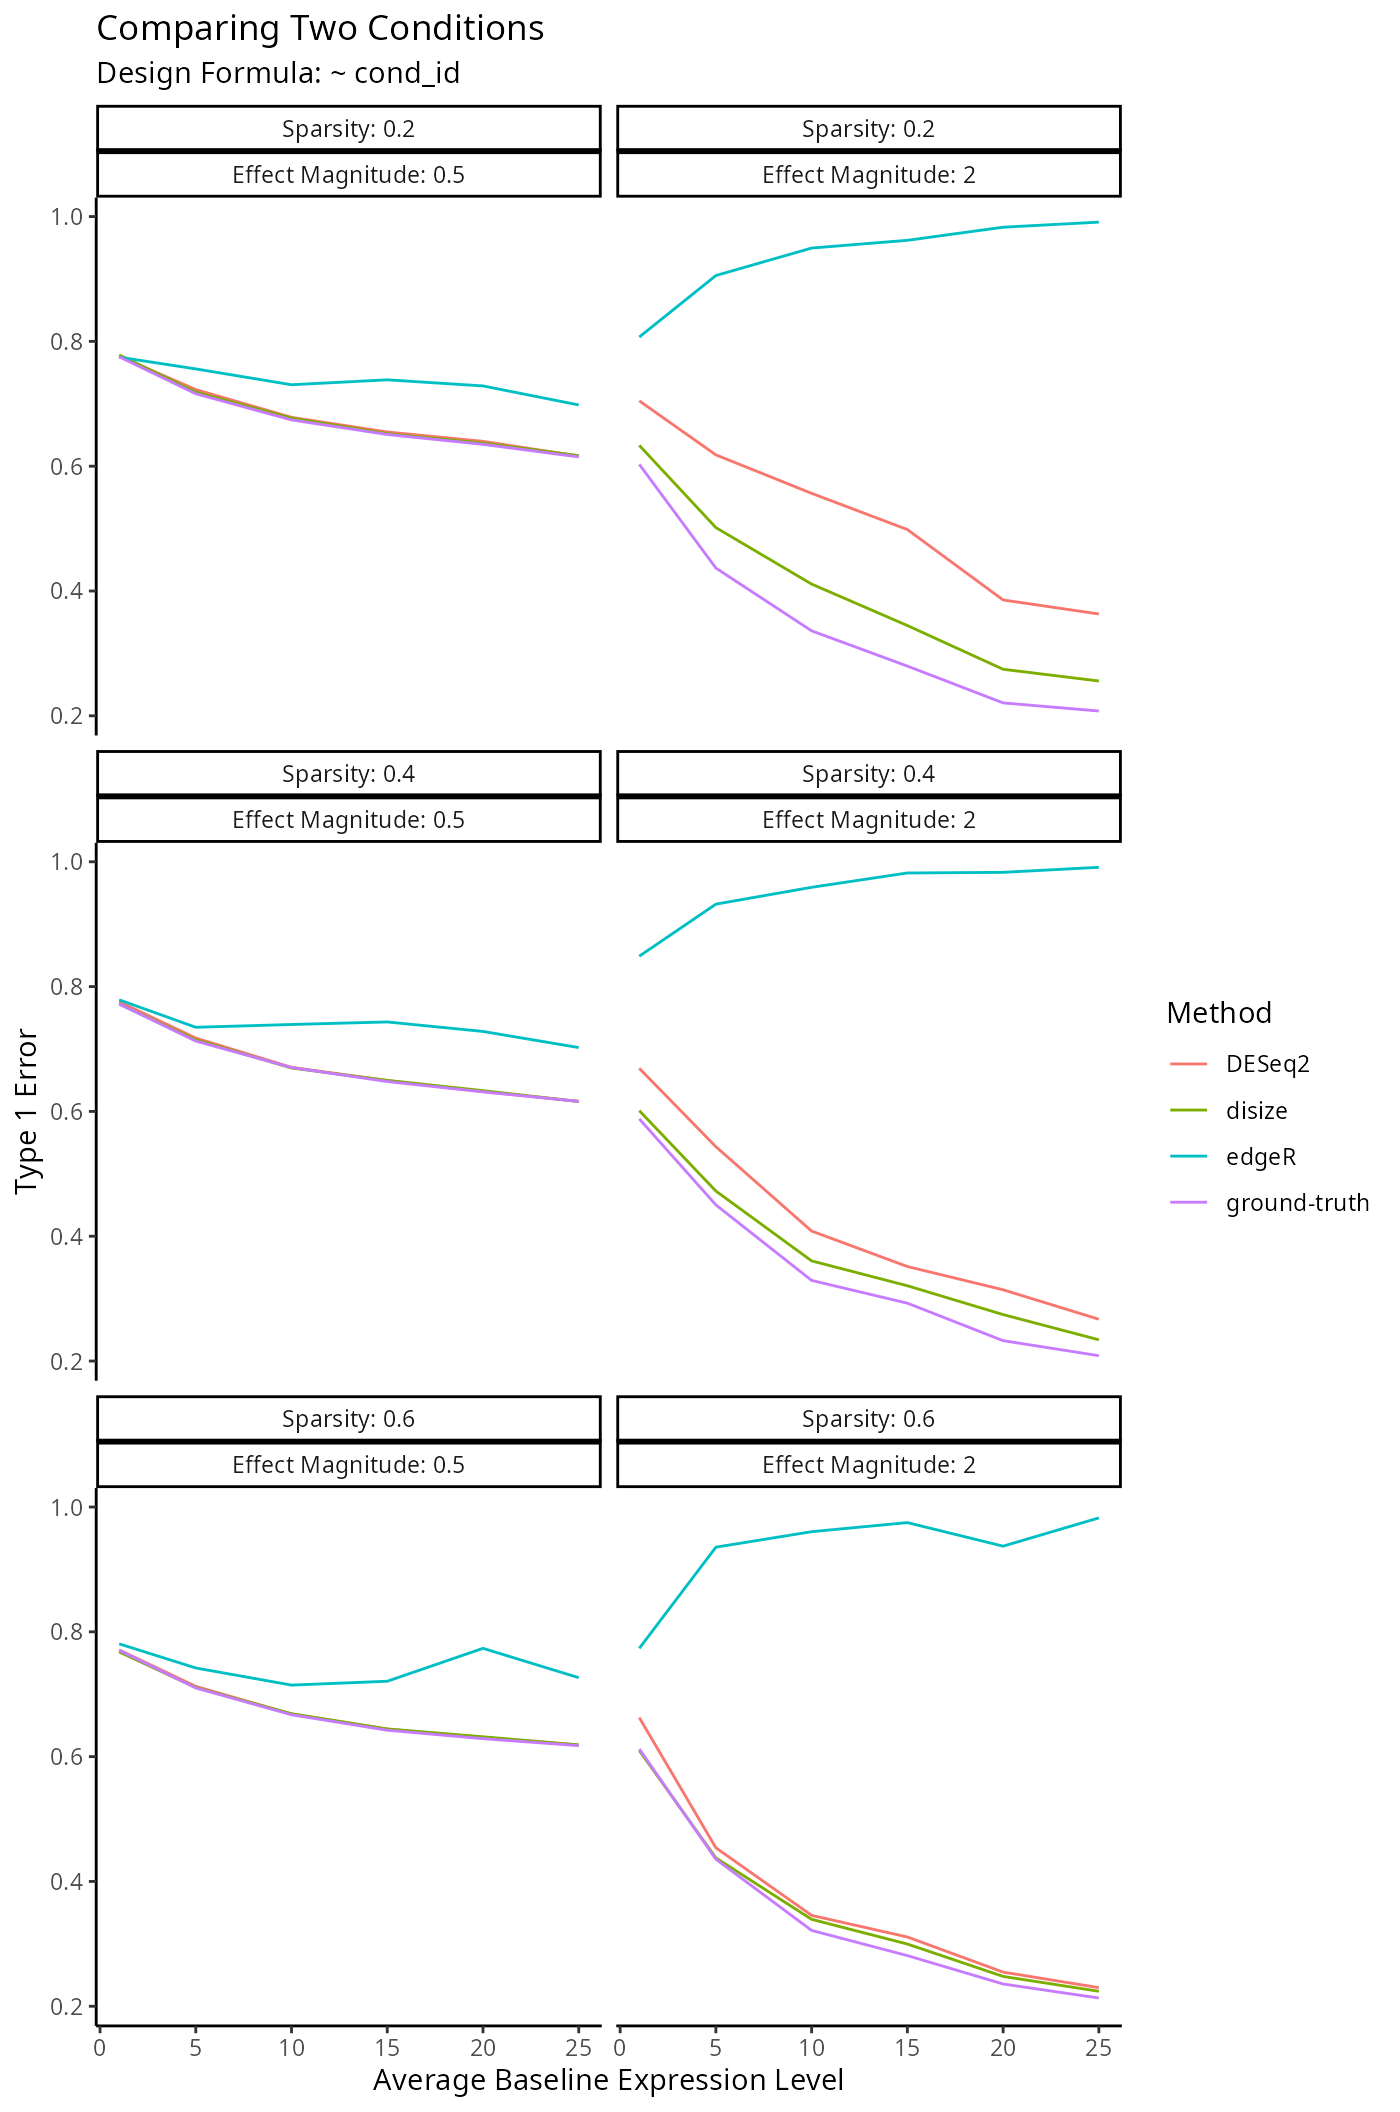
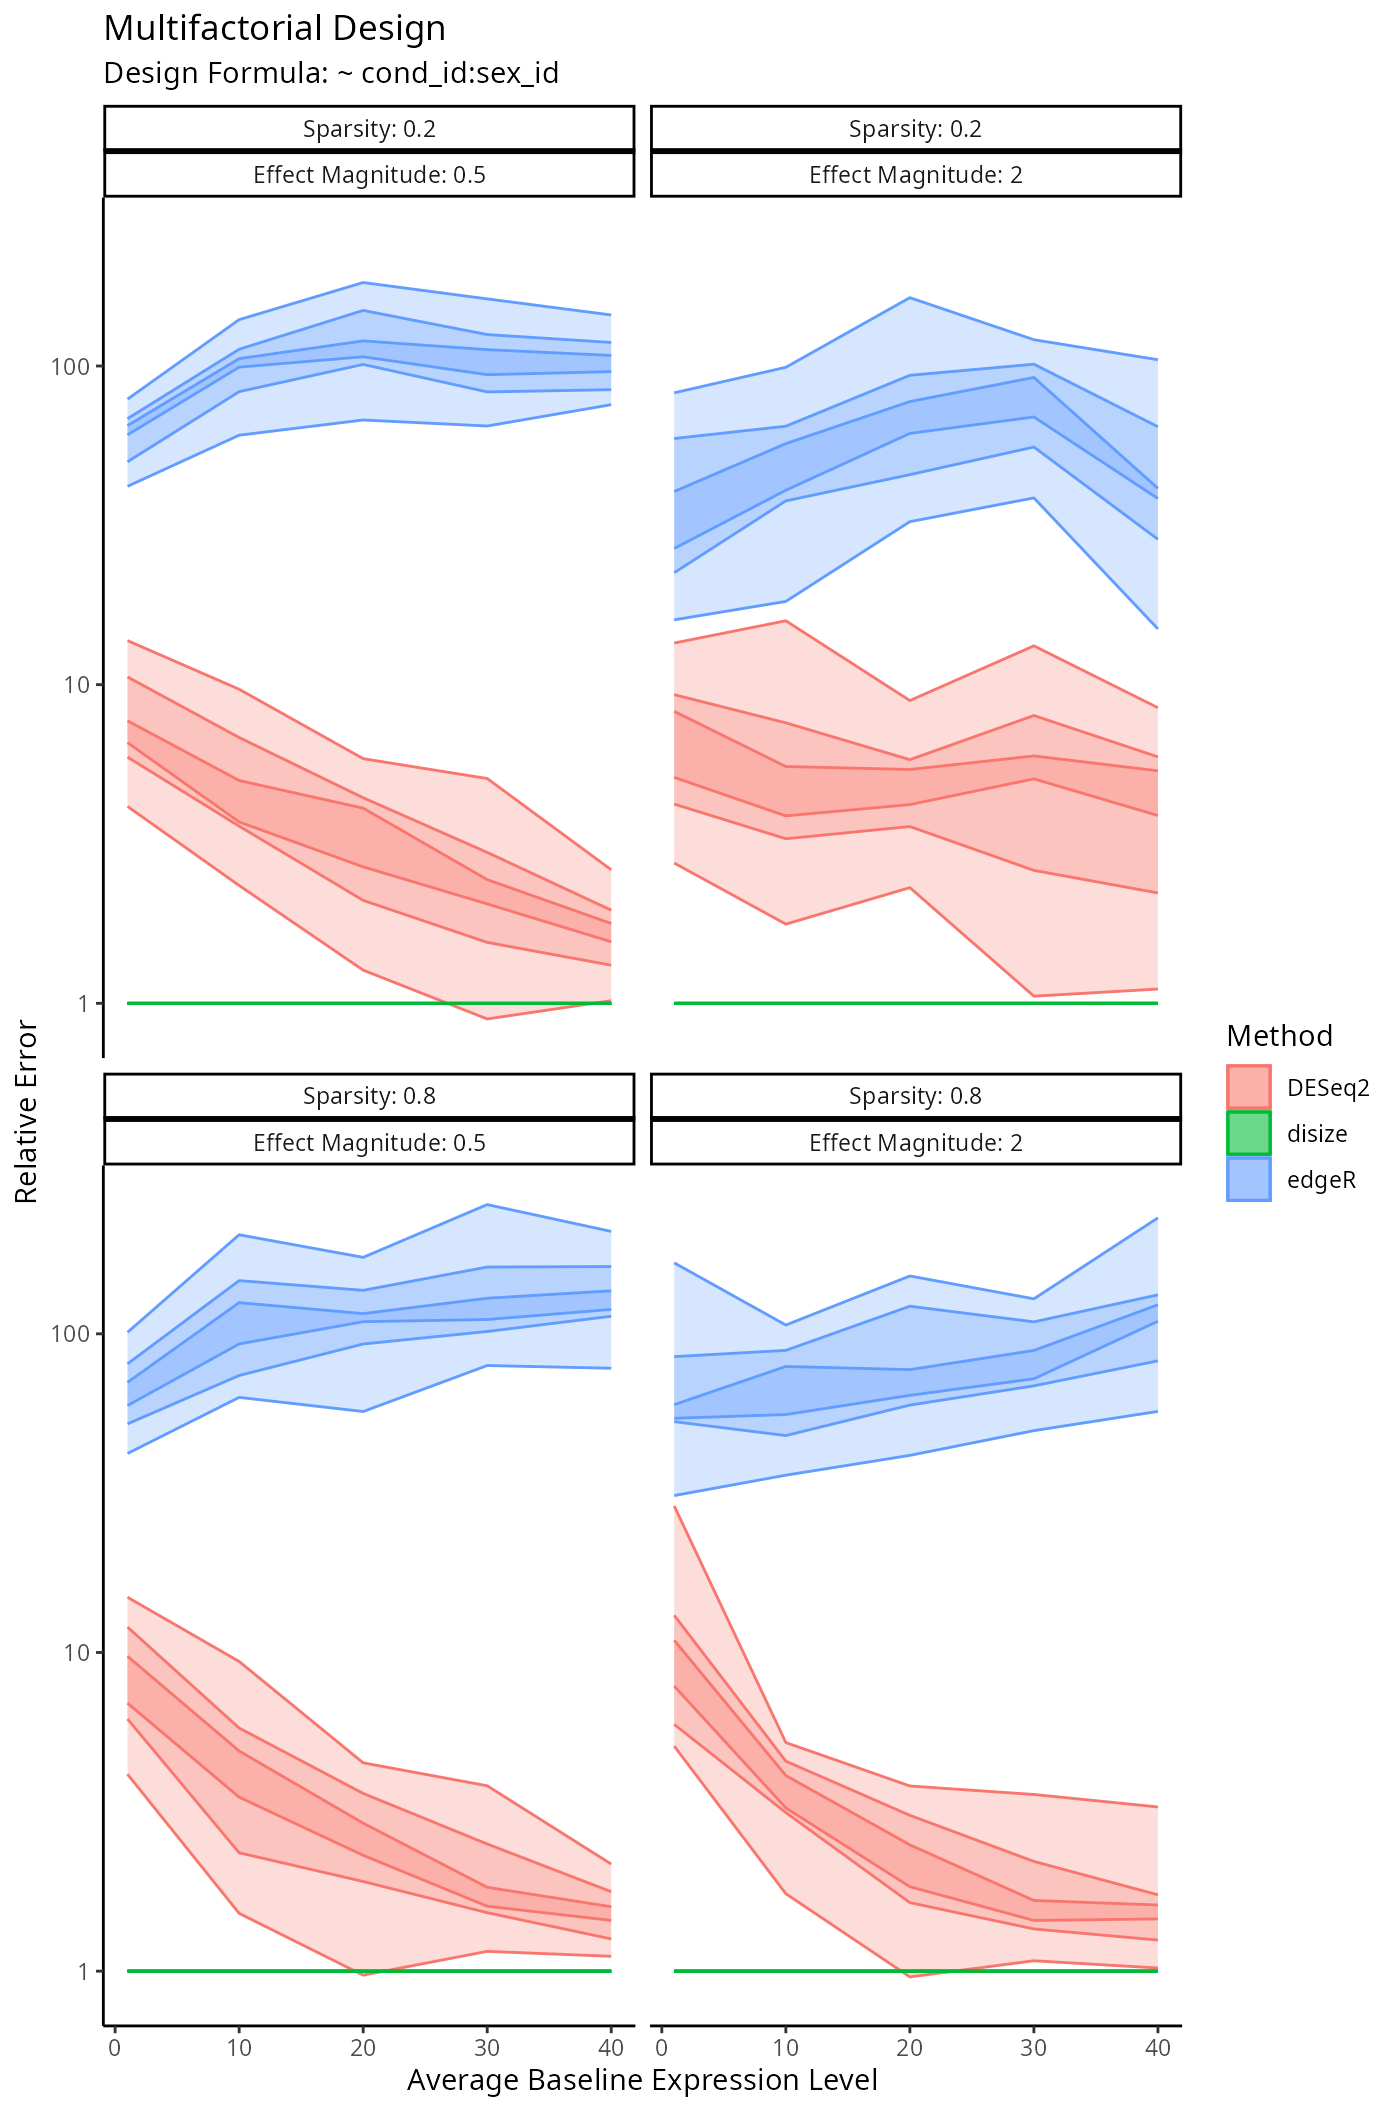
Built site for disize@0.5.0:

diff --git a/articles/benchmarking.html b/articles/benchmarking.html
@@ -154,39 +154,46 @@ varying the above parameters and then simulate a dataset corresponding
 to a given scenario:</p>
 <div class="sourceCode" id="cb1"><pre class="downlit sourceCode r">
 <code class="sourceCode R"><span><span class="co"># Simulate a single dataset given its settings</span></span>
-<span><span class="va">simulate_dataset</span> <span class="op">&lt;-</span> <span class="kw">function</span><span class="op">(</span><span class="va">design_formula</span>, <span class="va">metadata</span>, <span class="va">n_genes</span>, <span class="va">sparsity</span>, <span class="va">mgt</span>, <span class="va">avg</span><span class="op">)</span> <span class="op">{</span></span>
+<span><span class="va">simulate_dataset</span> <span class="op">&lt;-</span> <span class="kw">function</span><span class="op">(</span></span>
+<span>    <span class="va">design_formula</span>,</span>
+<span>    <span class="va">metadata</span>,</span>
+<span>    <span class="va">n_genes</span>,</span>
+<span>    <span class="va">sparsity</span>,</span>
+<span>    <span class="va">mgt</span>,</span>
+<span>    <span class="va">avg</span><span class="op">)</span> <span class="op">{</span></span>
 <span>    <span class="co"># Simulate inverse overdispersion factors</span></span>
-<span>    <span class="va">iodisps</span> <span class="op">&lt;-</span> <span class="fu"><a href="https://rdrr.io/r/stats/Lognormal.html" class="external-link">rlnorm</a></span><span class="op">(</span><span class="va">n_genes</span>, <span class="fu"><a href="https://rdrr.io/r/base/Log.html" class="external-link">log</a></span><span class="op">(</span><span class="fl">10</span><span class="op">)</span>, <span class="fl">0.1</span><span class="op">)</span></span>
+<span>    <span class="va">iodisps</span> <span class="op">&lt;-</span> <span class="fu"><a href="https://rdrr.io/r/stats/Lognormal.html" class="external-link">rlnorm</a></span><span class="op">(</span><span class="va">n_genes</span>, <span class="fu"><a href="https://rdrr.io/r/base/Log.html" class="external-link">log</a></span><span class="op">(</span><span class="fl">10</span><span class="op">)</span>, <span class="fl">0.5</span><span class="op">)</span></span>
 <span></span>
-<span>    <span class="co"># Construct design matrices ...</span></span>
+<span>    <span class="co"># Split design formula</span></span>
+<span>    <span class="va">design</span> <span class="op">&lt;-</span> <span class="fu">split_formula</span><span class="op">(</span><span class="va">design_formula</span><span class="op">)</span></span>
+<span></span>
+<span>    <span class="co"># Construct model matrices...</span></span>
 <span></span>
 <span>    <span class="co"># Simulate size factors</span></span>
-<span>    <span class="va">size_factors</span> <span class="op">&lt;-</span> <span class="fu"><a href="https://rdrr.io/r/stats/Uniform.html" class="external-link">runif</a></span><span class="op">(</span><span class="fu"><a href="https://rdrr.io/r/base/length.html" class="external-link">length</a></span><span class="op">(</span><span class="fu"><a href="https://rdrr.io/pkg/S4Vectors/man/Factor-class.html" class="external-link">levels</a></span><span class="op">(</span><span class="va">metadata</span><span class="op">$</span><span class="va">batch_id</span><span class="op">)</span><span class="op">)</span>, <span class="fl">0.1</span>, <span class="fl">1.0</span><span class="op">)</span> <span class="op">|&gt;</span></span>
-<span>        <span class="fu"><a href="https://rdrr.io/r/stats/setNames.html" class="external-link">setNames</a></span><span class="op">(</span><span class="fu"><a href="https://rdrr.io/pkg/S4Vectors/man/Factor-class.html" class="external-link">levels</a></span><span class="op">(</span><span class="va">metadata</span><span class="op">$</span><span class="va">batch_id</span><span class="op">)</span><span class="op">)</span></span>
+<span>    <span class="va">size_factors</span> <span class="op">&lt;-</span> <span class="fu"><a href="https://rdrr.io/r/stats/Uniform.html" class="external-link">runif</a></span><span class="op">(</span><span class="fu"><a href="https://rdrr.io/r/base/length.html" class="external-link">length</a></span><span class="op">(</span><span class="fu"><a href="https://rdrr.io/r/base/levels.html" class="external-link">levels</a></span><span class="op">(</span><span class="va">metadata</span><span class="op">$</span><span class="va">batch_id</span><span class="op">)</span><span class="op">)</span>, <span class="fl">0.1</span>, <span class="fl">1.0</span><span class="op">)</span> <span class="op">|&gt;</span></span>
+<span>        <span class="fu"><a href="https://rdrr.io/r/stats/setNames.html" class="external-link">setNames</a></span><span class="op">(</span><span class="fu"><a href="https://rdrr.io/r/base/levels.html" class="external-link">levels</a></span><span class="op">(</span><span class="va">metadata</span><span class="op">$</span><span class="va">batch_id</span><span class="op">)</span><span class="op">)</span></span>
+<span>    <span class="va">batch_effect</span> <span class="op">&lt;-</span> <span class="va">size_factors</span><span class="op">[</span><span class="va">metadata</span><span class="op">$</span><span class="va">batch_id</span><span class="op">]</span></span>
 <span></span>
 <span>    <span class="co"># Simulate counts</span></span>
 <span>    <span class="va">counts</span> <span class="op">&lt;-</span> <span class="fu"><a href="https://rdrr.io/r/base/lapply.html" class="external-link">sapply</a></span><span class="op">(</span><span class="fl">1</span><span class="op">:</span><span class="va">n_genes</span>, <span class="kw">function</span><span class="op">(</span><span class="va">g_i</span><span class="op">)</span> <span class="op">{</span></span>
-<span>        <span class="va">intercept</span> <span class="op">&lt;-</span> <span class="fu"><a href="https://rdrr.io/r/stats/Normal.html" class="external-link">rnorm</a></span><span class="op">(</span><span class="fl">1</span><span class="op">)</span></span>
-<span></span>
 <span>        <span class="co"># Simulate fixed-effects</span></span>
-<span>        <span class="va">fe_mask</span> <span class="op">&lt;-</span> <span class="fu"><a href="https://rdrr.io/r/stats/Binomial.html" class="external-link">rbinom</a></span><span class="op">(</span><span class="fu"><a href="https://rdrr.io/r/base/nrow.html" class="external-link">ncol</a></span><span class="op">(</span><span class="va">fe_design</span><span class="op">)</span>, <span class="fl">1</span>, <span class="fl">1</span> <span class="op">-</span> <span class="va">sparsity</span><span class="op">)</span> <span class="co"># Impose sparsity</span></span>
-<span>        <span class="va">fe_coefs</span> <span class="op">&lt;-</span> <span class="va">fe_mask</span> <span class="op">*</span> <span class="fu"><a href="https://rdrr.io/r/stats/Normal.html" class="external-link">rnorm</a></span><span class="op">(</span><span class="fu"><a href="https://rdrr.io/r/base/nrow.html" class="external-link">ncol</a></span><span class="op">(</span><span class="va">fe_design</span><span class="op">)</span>, sd <span class="op">=</span> <span class="va">mgt</span><span class="op">)</span></span>
+<span>        <span class="va">sparse</span> <span class="op">&lt;-</span> <span class="fu"><a href="https://rdrr.io/r/stats/Uniform.html" class="external-link">runif</a></span><span class="op">(</span><span class="fu"><a href="https://rdrr.io/r/base/nrow.html" class="external-link">ncol</a></span><span class="op">(</span><span class="va">fe_design</span><span class="op">)</span><span class="op">)</span> <span class="op">&lt;</span> <span class="va">sparsity</span></span>
+<span>        <span class="va">fe_coefs</span> <span class="op">&lt;-</span> <span class="fu"><a href="https://rdrr.io/r/base/ifelse.html" class="external-link">ifelse</a></span><span class="op">(</span><span class="va">sparse</span>, <span class="fl">0.0</span>, <span class="fu"><a href="https://rdrr.io/r/stats/Normal.html" class="external-link">rnorm</a></span><span class="op">(</span><span class="fu"><a href="https://rdrr.io/r/base/nrow.html" class="external-link">ncol</a></span><span class="op">(</span><span class="va">fe_design</span><span class="op">)</span>, <span class="fl">0</span>, <span class="va">mgt</span><span class="op">)</span><span class="op">)</span></span>
 <span></span>
 <span>        <span class="co"># Simulate random-effects</span></span>
-<span>        <span class="va">re_coefs</span> <span class="op">&lt;-</span> <span class="fu"><a href="https://rdrr.io/r/base/lapply.html" class="external-link">lapply</a></span><span class="op">(</span><span class="fu"><a href="https://rdrr.io/r/base/lapply.html" class="external-link">lapply</a></span><span class="op">(</span><span class="va">remm</span><span class="op">$</span><span class="va">Ztlist</span>, <span class="va">nrow</span><span class="op">)</span>, <span class="kw">function</span><span class="op">(</span><span class="va">n_rows</span><span class="op">)</span> <span class="op">{</span></span>
-<span>            <span class="va">re_mask</span> <span class="op">&lt;-</span> <span class="fu"><a href="https://rdrr.io/r/stats/Binomial.html" class="external-link">rbinom</a></span><span class="op">(</span><span class="fl">1</span>, <span class="fl">1</span>, <span class="fl">1</span> <span class="op">-</span> <span class="va">sparsity</span><span class="op">)</span> <span class="co"># Impose sparsity</span></span>
-<span>            <span class="va">re_coefs_block</span> <span class="op">&lt;-</span> <span class="va">re_mask</span> <span class="op">*</span> <span class="fu"><a href="https://rdrr.io/r/stats/Normal.html" class="external-link">rnorm</a></span><span class="op">(</span><span class="va">n_rows</span>, sd <span class="op">=</span> <span class="va">mgt</span><span class="op">)</span></span>
+<span>        <span class="va">re_coefs</span> <span class="op">&lt;-</span> <span class="fu"><a href="https://rdrr.io/r/base/lapply.html" class="external-link">lapply</a></span><span class="op">(</span><span class="fu"><a href="https://rdrr.io/r/base/lapply.html" class="external-link">lapply</a></span><span class="op">(</span><span class="va">remm</span><span class="op">$</span><span class="va">Ztlist</span>, <span class="va">nrow</span><span class="op">)</span>, <span class="kw">function</span><span class="op">(</span><span class="va">n_coefs</span><span class="op">)</span> <span class="op">{</span></span>
+<span>            <span class="va">sparse</span> <span class="op">&lt;-</span> <span class="fu"><a href="https://rdrr.io/r/base/rep.html" class="external-link">rep</a></span><span class="op">(</span><span class="fu"><a href="https://rdrr.io/r/stats/Uniform.html" class="external-link">runif</a></span><span class="op">(</span><span class="fl">1</span><span class="op">)</span> <span class="op">&lt;</span> <span class="va">sparsity</span>, <span class="va">n_coefs</span><span class="op">)</span></span>
 <span></span>
-<span>            <span class="va">re_coefs_block</span></span>
+<span>            <span class="fu"><a href="https://rdrr.io/r/base/ifelse.html" class="external-link">ifelse</a></span><span class="op">(</span><span class="va">sparse</span>, <span class="fl">0.0</span>, <span class="fu"><a href="https://rdrr.io/r/stats/Normal.html" class="external-link">rnorm</a></span><span class="op">(</span><span class="va">n_coefs</span>, sd <span class="op">=</span> <span class="va">mgt</span><span class="op">)</span><span class="op">)</span></span>
 <span>        <span class="op">}</span><span class="op">)</span> <span class="op">|&gt;</span></span>
 <span>            <span class="fu"><a href="https://rdrr.io/r/base/unlist.html" class="external-link">unlist</a></span><span class="op">(</span><span class="op">)</span></span>
 <span></span>
 <span>        <span class="co"># Compute realized magnitude</span></span>
 <span>        <span class="va">log_mu</span> <span class="op">&lt;-</span> <span class="fu"><a href="https://rdrr.io/r/base/vector.html" class="external-link">as.vector</a></span><span class="op">(</span></span>
-<span>            <span class="fu"><a href="https://rdrr.io/r/base/Log.html" class="external-link">log</a></span><span class="op">(</span><span class="va">avg</span><span class="op">)</span> <span class="op">+</span></span>
+<span>            <span class="fu"><a href="https://rdrr.io/r/stats/Normal.html" class="external-link">rnorm</a></span><span class="op">(</span><span class="fl">1</span>, <span class="fu"><a href="https://rdrr.io/r/base/Log.html" class="external-link">log</a></span><span class="op">(</span><span class="va">avg</span><span class="op">)</span><span class="op">)</span> <span class="op">+</span></span>
 <span>                <span class="va">fe_design</span> <span class="op"><a href="https://rdrr.io/r/base/matmult.html" class="external-link">%*%</a></span> <span class="va">fe_coefs</span> <span class="op">+</span></span>
 <span>                <span class="va">re_design</span> <span class="op"><a href="https://rdrr.io/r/base/matmult.html" class="external-link">%*%</a></span> <span class="va">re_coefs</span> <span class="op">+</span></span>
-<span>                <span class="fu"><a href="https://rdrr.io/r/base/Log.html" class="external-link">log</a></span><span class="op">(</span><span class="va">size_factors</span><span class="op">[</span><span class="va">metadata</span><span class="op">$</span><span class="va">batch_id</span><span class="op">]</span><span class="op">)</span></span>
+<span>                <span class="fu"><a href="https://rdrr.io/r/base/Log.html" class="external-link">log</a></span><span class="op">(</span><span class="va">batch_effect</span><span class="op">)</span></span>
 <span>        <span class="op">)</span></span>
 <span></span>
 <span>        <span class="co"># Draw counts from negative binomial</span></span>
@@ -200,7 +207,6 @@ to a given scenario:</p>
 <span>        counts <span class="op">=</span> <span class="va">counts</span>,</span>
 <span>        metadata <span class="op">=</span> <span class="va">metadata</span>,</span>
 <span>        size_factors <span class="op">=</span> <span class="fu"><a href="https://rdrr.io/r/base/Log.html" class="external-link">log</a></span><span class="op">(</span></span>
-<span>            <span class="co"># Scale for comparisons</span></span>
 <span>            <span class="va">size_factors</span> <span class="op">/</span> <span class="fu"><a href="https://rdrr.io/r/base/sum.html" class="external-link">sum</a></span><span class="op">(</span><span class="va">size_factors</span><span class="op">)</span> <span class="op">*</span> <span class="fu"><a href="https://rdrr.io/r/base/length.html" class="external-link">length</a></span><span class="op">(</span><span class="va">size_factors</span><span class="op">)</span></span>
 <span>        <span class="op">)</span></span>
 <span>    <span class="op">)</span></span>
@@ -215,15 +221,89 @@ to a given scenario:</p>
 </h3>
 <p><img src="benchmarking_files/figure-html/unnamed-chunk-5-1.png" width="700"></p>
 </div>
+<div class="section level3">
+<h3 id="multifactorial-design">Multifactorial Design<a class="anchor" aria-label="anchor" href="#multifactorial-design"></a>
+</h3>
+<p><img src="benchmarking_files/figure-html/unnamed-chunk-6-1.png" width="700"></p>
+</div>
 </div>
 <div class="section level2">
 <h2 id="impact-on-downstream-differential-expression-analysis">Impact on Downstream Differential Expression Analysis<a class="anchor" aria-label="anchor" href="#impact-on-downstream-differential-expression-analysis"></a>
 </h2>
+<p>Normalization is a small component of the transcriptomic workflow.
+The impact on downstream analyses however is the main outcome of
+interest, as size factors are only used to account for
+batch-effects.</p>
+<p>To evaluate the impact of each normalization method on a typical
+downstream analysis, we specify a given experimental design and simulate
+a dataset similar to the benchmarks above:</p>
+<div class="sourceCode" id="cb2"><pre class="downlit sourceCode r">
+<code class="sourceCode R"><span><span class="co"># Simulate a single dataset given its settings</span></span>
+<span><span class="va">simulate_dataset</span> <span class="op">&lt;-</span> <span class="kw">function</span><span class="op">(</span></span>
+<span>    <span class="va">design_formula</span>,</span>
+<span>    <span class="va">metadata</span>,</span>
+<span>    <span class="va">n_genes</span>,</span>
+<span>    <span class="va">sparsity</span>,</span>
+<span>    <span class="va">mgt</span>,</span>
+<span>    <span class="va">avg</span><span class="op">)</span> <span class="op">{</span></span>
+<span>    <span class="co"># Simulate inverse overdispersion factors</span></span>
+<span>    <span class="va">iodisps</span> <span class="op">&lt;-</span> <span class="fu"><a href="https://rdrr.io/r/stats/Lognormal.html" class="external-link">rlnorm</a></span><span class="op">(</span><span class="va">n_genes</span>, <span class="fu"><a href="https://rdrr.io/r/base/Log.html" class="external-link">log</a></span><span class="op">(</span><span class="fl">10</span><span class="op">)</span>, <span class="fl">0.5</span><span class="op">)</span></span>
+<span></span>
+<span>    <span class="co"># Simulate size factors</span></span>
+<span>    <span class="va">size_factors</span> <span class="op">&lt;-</span> <span class="fu"><a href="https://rdrr.io/r/stats/Uniform.html" class="external-link">runif</a></span><span class="op">(</span><span class="fu"><a href="https://rdrr.io/r/base/length.html" class="external-link">length</a></span><span class="op">(</span><span class="fu"><a href="https://rdrr.io/r/base/levels.html" class="external-link">levels</a></span><span class="op">(</span><span class="va">metadata</span><span class="op">$</span><span class="va">batch_id</span><span class="op">)</span><span class="op">)</span>, <span class="fl">0.1</span>, <span class="fl">1.0</span><span class="op">)</span> <span class="op">|&gt;</span></span>
+<span>        <span class="fu"><a href="https://rdrr.io/r/stats/setNames.html" class="external-link">setNames</a></span><span class="op">(</span><span class="fu"><a href="https://rdrr.io/r/base/levels.html" class="external-link">levels</a></span><span class="op">(</span><span class="va">metadata</span><span class="op">$</span><span class="va">batch_id</span><span class="op">)</span><span class="op">)</span></span>
+<span>    <span class="va">batch_effect</span> <span class="op">&lt;-</span> <span class="va">size_factors</span><span class="op">[</span><span class="va">metadata</span><span class="op">$</span><span class="va">batch_id</span><span class="op">]</span></span>
+<span></span>
+<span>    <span class="co"># Construct sparsity mask</span></span>
+<span>    <span class="va">mask</span> <span class="op">&lt;-</span> <span class="fu"><a href="https://rdrr.io/r/base/rep.html" class="external-link">rep</a></span><span class="op">(</span><span class="fl">1.0</span>, <span class="va">n_genes</span><span class="op">)</span></span>
+<span>    <span class="va">mask</span><span class="op">[</span><span class="fl">1</span><span class="op">:</span><span class="fu"><a href="https://rdrr.io/r/base/Round.html" class="external-link">floor</a></span><span class="op">(</span><span class="va">sparsity</span> <span class="op">*</span> <span class="va">n_genes</span><span class="op">)</span><span class="op">]</span> <span class="op">&lt;-</span> <span class="fl">0.0</span></span>
+<span></span>
+<span>    <span class="co"># Construct design matrix</span></span>
+<span>    <span class="va">design</span> <span class="op">&lt;-</span> <span class="fu"><a href="https://rdrr.io/r/stats/model.matrix.html" class="external-link">model.matrix</a></span><span class="op">(</span><span class="va">design_formula</span>, <span class="va">metadata</span><span class="op">)</span></span>
+<span></span>
+<span>    <span class="co"># Simulate counts</span></span>
+<span>    <span class="va">counts</span> <span class="op">&lt;-</span> <span class="fu"><a href="https://rdrr.io/r/base/lapply.html" class="external-link">sapply</a></span><span class="op">(</span><span class="fl">1</span><span class="op">:</span><span class="va">n_genes</span>, <span class="kw">function</span><span class="op">(</span><span class="va">g_i</span><span class="op">)</span> <span class="op">{</span></span>
+<span>        <span class="co"># Simulate effects</span></span>
+<span>        <span class="va">effects</span> <span class="op">&lt;-</span> <span class="fu"><a href="https://rdrr.io/r/stats/Normal.html" class="external-link">rnorm</a></span><span class="op">(</span><span class="fu"><a href="https://rdrr.io/r/base/nrow.html" class="external-link">ncol</a></span><span class="op">(</span><span class="va">design</span><span class="op">)</span>, sd <span class="op">=</span> <span class="va">mgt</span><span class="op">)</span></span>
+<span></span>
+<span>        <span class="co"># Compute realized magnitude</span></span>
+<span>        <span class="va">log_mu</span> <span class="op">&lt;-</span> <span class="fu"><a href="https://rdrr.io/r/base/vector.html" class="external-link">as.vector</a></span><span class="op">(</span></span>
+<span>            <span class="fu"><a href="https://rdrr.io/r/stats/Normal.html" class="external-link">rnorm</a></span><span class="op">(</span><span class="fl">1</span>, <span class="fu"><a href="https://rdrr.io/r/base/Log.html" class="external-link">log</a></span><span class="op">(</span><span class="va">avg</span><span class="op">)</span><span class="op">)</span> <span class="op">+</span></span>
+<span>                <span class="va">design</span> <span class="op"><a href="https://rdrr.io/r/base/matmult.html" class="external-link">%*%</a></span> <span class="va">effects</span> <span class="op">*</span> <span class="va">mask</span><span class="op">[</span><span class="va">g_i</span><span class="op">]</span> <span class="op">+</span></span>
+<span>                <span class="fu"><a href="https://rdrr.io/r/base/Log.html" class="external-link">log</a></span><span class="op">(</span><span class="va">batch_effect</span><span class="op">)</span></span>
+<span>        <span class="op">)</span></span>
+<span></span>
+<span>        <span class="co"># Draw counts from negative binomial</span></span>
+<span>        <span class="fu"><a href="https://rdrr.io/r/stats/NegBinomial.html" class="external-link">rnbinom</a></span><span class="op">(</span><span class="fu"><a href="https://rdrr.io/r/base/nrow.html" class="external-link">nrow</a></span><span class="op">(</span><span class="va">design</span><span class="op">)</span>, mu <span class="op">=</span> <span class="fu"><a href="https://rdrr.io/r/base/Log.html" class="external-link">exp</a></span><span class="op">(</span><span class="va">log_mu</span><span class="op">)</span>, size <span class="op">=</span> <span class="va">iodisps</span><span class="op">[</span><span class="va">g_i</span><span class="op">]</span><span class="op">)</span></span>
+<span>    <span class="op">}</span><span class="op">)</span></span>
+<span></span>
+<span>    <span class="co"># Cast to integers</span></span>
+<span>    <span class="fu"><a href="https://rdrr.io/r/base/mode.html" class="external-link">mode</a></span><span class="op">(</span><span class="va">counts</span><span class="op">)</span> <span class="op">&lt;-</span> <span class="st">"integer"</span></span>
+<span></span>
+<span>    <span class="fu"><a href="https://rdrr.io/r/base/list.html" class="external-link">list</a></span><span class="op">(</span></span>
+<span>        counts <span class="op">=</span> <span class="va">counts</span>,</span>
+<span>        metadata <span class="op">=</span> <span class="va">metadata</span>,</span>
+<span>        size_factors <span class="op">=</span> <span class="fu"><a href="https://rdrr.io/r/base/Log.html" class="external-link">log</a></span><span class="op">(</span></span>
+<span>            <span class="va">size_factors</span> <span class="op">/</span> <span class="fu"><a href="https://rdrr.io/r/base/sum.html" class="external-link">sum</a></span><span class="op">(</span><span class="va">size_factors</span><span class="op">)</span> <span class="op">*</span> <span class="fu"><a href="https://rdrr.io/r/base/length.html" class="external-link">length</a></span><span class="op">(</span><span class="va">size_factors</span><span class="op">)</span></span>
+<span>        <span class="op">)</span>,</span>
+<span>        null <span class="op">=</span> <span class="va">mask</span> <span class="op">==</span> <span class="fl">0.0</span></span>
+<span>    <span class="op">)</span></span>
+<span><span class="op">}</span></span></code></pre></div>
+<p>The only difference being we now keep track of which genes are truly
+null to benchmark the type 1 &amp; type 2 error rates.</p>
 <div class="section level3">
 <h3 id="comparing-two-conditions-1">Comparing Two Conditions<a class="anchor" aria-label="anchor" href="#comparing-two-conditions-1"></a>
 </h3>
-<p><img src="benchmarking_files/figure-html/unnamed-chunk-6-1.png" width="700"></p>
-<p><img src="benchmarking_files/figure-html/unnamed-chunk-7-1.png" width="700"></p>
+<div class="section level4">
+<h4 id="type-1-error-rate">Type 1 Error Rate<a class="anchor" aria-label="anchor" href="#type-1-error-rate"></a>
+</h4>
+<p><img src="benchmarking_files/figure-html/unnamed-chunk-8-1.png" width="700"></p>
+</div>
+<div class="section level4">
+<h4 id="type-2-error-rate">Type 2 Error Rate<a class="anchor" aria-label="anchor" href="#type-2-error-rate"></a>
+</h4>
+<p><img src="benchmarking_files/figure-html/unnamed-chunk-9-1.png" width="700"></p>
+</div>
 </div>
 </div>
   </main><aside class="col-md-3"><nav id="toc" aria-label="Table of contents"><h2>On this page</h2>

diff --git a/articles/disize.html b/articles/disize.html
@@ -202,13 +202,16 @@ factors:</p>
 <span><span class="op">)</span></span>
 <span><span class="co">#&gt; Formatting data...</span></span>
 <span><span class="co">#&gt; Optimizing over initialization...</span></span>
-<span><span class="co">#&gt; Estimating size factors... (Max ETA: ~27.8s)</span></span>
-<span><span class="co">#&gt; Finised in 8.5s!</span></span>
+<span><span class="co">#&gt; Estimating size factors... (Max ETA: ~94.7s)</span></span>
+<span><span class="co">#&gt; Warning in disize::disize(design_formula, counts, metadata, batch_name =</span></span>
+<span><span class="co">#&gt; "sample_id", : Model did not converge, retrying fit with different</span></span>
+<span><span class="co">#&gt; initialization... (if you see this multiple times try increasing 'n_iters')</span></span>
+<span><span class="co">#&gt; Finised in 12.7s!</span></span>
 <span><span class="fu"><a href="https://rdrr.io/r/base/print.html" class="external-link">print</a></span><span class="op">(</span><span class="va">size_factors_1</span><span class="op">)</span></span>
-<span><span class="co">#&gt;        Ctrl1        Ctrl2        Ctrl3         LPS1         LPS2         LPS3 </span></span>
-<span><span class="co">#&gt;  0.086709867  0.010925038 -0.077574480  0.080146164  0.008387478  0.094615793 </span></span>
-<span><span class="co">#&gt;          NE1          NE2          NE3       NELPS1       NELPS2       NELPS3 </span></span>
-<span><span class="co">#&gt; -0.065187544  0.037279661  0.106724846 -0.164916009 -0.136814905 -0.025961601</span></span></code></pre></div>
+<span><span class="co">#&gt;       Ctrl1       Ctrl2       Ctrl3        LPS1        LPS2        LPS3 </span></span>
+<span><span class="co">#&gt;  0.08671084  0.01092470 -0.07757363  0.08014565  0.00838777  0.09461482 </span></span>
+<span><span class="co">#&gt;         NE1         NE2         NE3      NELPS1      NELPS2      NELPS3 </span></span>
+<span><span class="co">#&gt; -0.06518790  0.03728017  0.10672543 -0.16491650 -0.13681531 -0.02596185</span></span></code></pre></div>
 <p>Evidently the batch-effect is indeed small across most samples! The
 samples “NELPS1” and “NELPS2” seem to have been processed slightly
 worse, but otherwise the estimated size factors are approximately the
@@ -226,13 +229,13 @@ a larger <code>n_feats</code>:</p>
 <span><span class="op">)</span></span>
 <span><span class="co">#&gt; Formatting data...</span></span>
 <span><span class="co">#&gt; Optimizing over initialization...</span></span>
-<span><span class="co">#&gt; Estimating size factors... (Max ETA: ~43.2s)</span></span>
-<span><span class="co">#&gt; Finised in 19.9s!</span></span>
+<span><span class="co">#&gt; Estimating size factors... (Max ETA: ~132.4s)</span></span>
+<span><span class="co">#&gt; Finised in 21.8s!</span></span>
 <span><span class="fu"><a href="https://rdrr.io/r/base/print.html" class="external-link">print</a></span><span class="op">(</span><span class="va">size_factors_2</span><span class="op">)</span></span>
 <span><span class="co">#&gt;        Ctrl1        Ctrl2        Ctrl3         LPS1         LPS2         LPS3 </span></span>
-<span><span class="co">#&gt;  0.094264743  0.013007382 -0.070802431  0.069177579 -0.005185841  0.081820779 </span></span>
+<span><span class="co">#&gt;  0.094264803  0.013007556 -0.070802495  0.069177490 -0.005186325  0.081820682 </span></span>
 <span><span class="co">#&gt;          NE1          NE2          NE3       NELPS1       NELPS2       NELPS3 </span></span>
-<span><span class="co">#&gt; -0.043597907  0.050039724  0.113596395 -0.173229875 -0.143793831 -0.031765614</span></span></code></pre></div>
+<span><span class="co">#&gt; -0.043597883  0.050039834  0.113596360 -0.173229669 -0.143793687 -0.031765509</span></span></code></pre></div>
 <p>Indeed the estimates remain largely the same.</p>
 </div>
 <div class="section level3">
@@ -265,28 +268,28 @@ object, the analysis then proceeds normally.</p>
 <span><span class="co">#&gt; DataFrame with 57132 rows and 6 columns</span></span>
 <span><span class="co">#&gt;                       baseMean log2FoldChange     lfcSE        stat      pvalue</span></span>
 <span><span class="co">#&gt;                      &lt;numeric&gt;      &lt;numeric&gt; &lt;numeric&gt;   &lt;numeric&gt;   &lt;numeric&gt;</span></span>
-<span><span class="co">#&gt; ENSMUSG00000028180 1.94153e+03     -0.7871856 0.0925977 -8.50113915 1.87739e-17</span></span>
-<span><span class="co">#&gt; ENSMUSG00000028182 2.81686e+01     -0.8862789 0.5028259 -1.76259590 7.79687e-02</span></span>
-<span><span class="co">#&gt; ENSMUSG00000028185 3.35066e-01     -0.0402408 4.4073563 -0.00913038 9.92715e-01</span></span>
-<span><span class="co">#&gt; ENSMUSG00000028184 1.03779e+04      0.7660372 0.0651605 11.75616640 6.56479e-32</span></span>
-<span><span class="co">#&gt; ENSMUSG00000028187 9.79170e+02     -0.1786581 0.1105460 -1.61614201 1.06064e-01</span></span>
+<span><span class="co">#&gt; ENSMUSG00000028180 1.94153e+03     -0.7871856 0.0925977 -8.50113655 1.87743e-17</span></span>
+<span><span class="co">#&gt; ENSMUSG00000028182 2.81686e+01     -0.8862789 0.5028259 -1.76259586 7.79687e-02</span></span>
+<span><span class="co">#&gt; ENSMUSG00000028185 3.35067e-01     -0.0402408 4.4073563 -0.00913037 9.92715e-01</span></span>
+<span><span class="co">#&gt; ENSMUSG00000028184 1.03779e+04      0.7660372 0.0651605 11.75615900 6.56537e-32</span></span>
+<span><span class="co">#&gt; ENSMUSG00000028187 9.79170e+02     -0.1786581 0.1105460 -1.61614186 1.06064e-01</span></span>
 <span><span class="co">#&gt; ...                        ...            ...       ...         ...         ...</span></span>
-<span><span class="co">#&gt; ENSMUSG00000106108   10.697655      6.7530325 1.4302304    4.721640 2.33951e-06</span></span>
-<span><span class="co">#&gt; ENSMUSG00000042675 1581.164323     -0.0365513 0.0763697   -0.478610 6.32216e-01</span></span>
-<span><span class="co">#&gt; ENSMUSG00000036959 1429.611303      0.5472428 0.0835722    6.548140 5.82581e-11</span></span>
-<span><span class="co">#&gt; ENSMUSG00000036958    0.658051     -3.8966753 4.2776587   -0.910936 3.62329e-01</span></span>
+<span><span class="co">#&gt; ENSMUSG00000106108   10.697656      6.7530326 1.4302304    4.721640 2.33951e-06</span></span>
+<span><span class="co">#&gt; ENSMUSG00000042675 1581.164232     -0.0365512 0.0763697   -0.478609 6.32217e-01</span></span>
+<span><span class="co">#&gt; ENSMUSG00000036959 1429.611345      0.5472428 0.0835723    6.548139 5.82583e-11</span></span>
+<span><span class="co">#&gt; ENSMUSG00000036958    0.658051     -3.8966751 4.2776587   -0.910936 3.62329e-01</span></span>
 <span><span class="co">#&gt; ENSMUSG00000042678    5.578370     -5.5971668 1.7015848   -3.289385 1.00407e-03</span></span>
 <span><span class="co">#&gt;                           padj</span></span>
 <span><span class="co">#&gt;                      &lt;numeric&gt;</span></span>
-<span><span class="co">#&gt; ENSMUSG00000028180 1.75100e-16</span></span>
+<span><span class="co">#&gt; ENSMUSG00000028180 1.75104e-16</span></span>
 <span><span class="co">#&gt; ENSMUSG00000028182 1.51915e-01</span></span>
 <span><span class="co">#&gt; ENSMUSG00000028185          NA</span></span>
-<span><span class="co">#&gt; ENSMUSG00000028184 1.03484e-30</span></span>
+<span><span class="co">#&gt; ENSMUSG00000028184 1.03493e-30</span></span>
 <span><span class="co">#&gt; ENSMUSG00000028187 1.97551e-01</span></span>
 <span><span class="co">#&gt; ...                        ...</span></span>
-<span><span class="co">#&gt; ENSMUSG00000106108 9.56173e-06</span></span>
+<span><span class="co">#&gt; ENSMUSG00000106108 9.56172e-06</span></span>
 <span><span class="co">#&gt; ENSMUSG00000042675 7.67225e-01</span></span>
-<span><span class="co">#&gt; ENSMUSG00000036959 3.62239e-10</span></span>
+<span><span class="co">#&gt; ENSMUSG00000036959 3.62241e-10</span></span>
 <span><span class="co">#&gt; ENSMUSG00000036958          NA</span></span>
 <span><span class="co">#&gt; ENSMUSG00000042678 2.93008e-03</span></span></code></pre></div>
 </div>

diff --git a/articles/comparing-defs.html b/articles/comparing-defs.html
@@ -173,8 +173,8 @@ for both batch definitions:</p>
 <span><span class="op">)</span></span>
 <span><span class="co">#&gt; Formatting data...</span></span>
 <span><span class="co">#&gt; Optimizing over initialization...</span></span>
-<span><span class="co">#&gt; Estimating size factors... (Max ETA: ~13.1s)</span></span>
-<span><span class="co">#&gt; Finised in 9s!</span></span>
+<span><span class="co">#&gt; Estimating size factors... (Max ETA: ~48.9s)</span></span>
+<span><span class="co">#&gt; Finised in 10.8s!</span></span>
 <span></span>
 <span><span class="va">size_factors_2</span> <span class="op">&lt;-</span> <span class="fu">disize</span><span class="fu">::</span><span class="fu"><a href="../reference/disize.html">disize</a></span><span class="op">(</span></span>
 <span>    <span class="va">design_formula</span>,</span>
@@ -186,8 +186,8 @@ for both batch definitions:</p>
 <span><span class="op">)</span></span>
 <span><span class="co">#&gt; Formatting data...</span></span>
 <span><span class="co">#&gt; Optimizing over initialization...</span></span>
-<span><span class="co">#&gt; Estimating size factors... (Max ETA: ~12.8s)</span></span>
-<span><span class="co">#&gt; Finised in 10.7s!</span></span></code></pre></div>
+<span><span class="co">#&gt; Estimating size factors... (Max ETA: ~48.3s)</span></span>
+<span><span class="co">#&gt; Finised in 19.5s!</span></span></code></pre></div>
 </div>
 <div class="section level2">
 <h2 id="comparing-definitions">Comparing definitions<a class="anchor" aria-label="anchor" href="#comparing-definitions"></a>
@@ -201,13 +201,13 @@ for both batch definitions:</p>
 <span></span>
 <span><span class="fu"><a href="https://rdrr.io/r/base/print.html" class="external-link">print</a></span><span class="op">(</span><span class="va">size_factors</span><span class="op">)</span></span>
 <span><span class="co">#&gt;    sample_id       id_1        id_2</span></span>
-<span><span class="co">#&gt; 1   treated1  0.3709331  0.43231922</span></span>
-<span><span class="co">#&gt; 2   treated2 -0.3807346 -0.35853783</span></span>
-<span><span class="co">#&gt; 3   treated3 -0.3807346 -0.27121123</span></span>
-<span><span class="co">#&gt; 4 untreated1  0.2341342  0.04459025</span></span>
-<span><span class="co">#&gt; 5 untreated2  0.2341342  0.50729327</span></span>
-<span><span class="co">#&gt; 6 untreated3 -0.5046105 -0.51030232</span></span>
-<span><span class="co">#&gt; 7 untreated4 -0.5046105 -0.36915640</span></span></code></pre></div>
+<span><span class="co">#&gt; 1   treated1  0.3709326  0.43231978</span></span>
+<span><span class="co">#&gt; 2   treated2 -0.3807336 -0.35853789</span></span>
+<span><span class="co">#&gt; 3   treated3 -0.3807336 -0.27121098</span></span>
+<span><span class="co">#&gt; 4 untreated1  0.2341340  0.04459004</span></span>
+<span><span class="co">#&gt; 5 untreated2  0.2341340  0.50729288</span></span>
+<span><span class="co">#&gt; 6 untreated3 -0.5046102 -0.51030245</span></span>
+<span><span class="co">#&gt; 7 untreated4 -0.5046102 -0.36915647</span></span></code></pre></div>
 <p>Although there are some similarities (e.g., the estimates for
 <code>untreated3</code> and <code>treated2</code> are approximately
 equal), there are enough differences between samples that the more
@@ -243,17 +243,17 @@ object, the analysis then proceeds normally.</p>
 <span><span class="co">#&gt; DataFrame with 14599 rows and 6 columns</span></span>
 <span><span class="co">#&gt;                baseMean log2FoldChange     lfcSE       stat    pvalue      padj</span></span>
 <span><span class="co">#&gt;               &lt;numeric&gt;      &lt;numeric&gt; &lt;numeric&gt;  &lt;numeric&gt; &lt;numeric&gt; &lt;numeric&gt;</span></span>
-<span><span class="co">#&gt; FBgn0000003    0.187365    -1.03193734  3.804204 -0.2712624 0.7861892        NA</span></span>
-<span><span class="co">#&gt; FBgn0000008  103.057665     0.00258183  0.222254  0.0116166 0.9907315  0.997843</span></span>
-<span><span class="co">#&gt; FBgn0000014    1.140011     0.51874770  2.111253  0.2457061 0.8059098        NA</span></span>
-<span><span class="co">#&gt; FBgn0000015    0.916010     1.88688065  2.062249  0.9149625 0.3602113        NA</span></span>
-<span><span class="co">#&gt; FBgn0000017 4713.919898     0.24364251  0.126651  1.9237331 0.0543881  0.279684</span></span>
+<span><span class="co">#&gt; FBgn0000003    0.187365    -1.03193687  3.804204 -0.2712622 0.7861893        NA</span></span>
+<span><span class="co">#&gt; FBgn0000008  103.057667     0.00258248  0.222254  0.0116195 0.9907292  0.997847</span></span>
+<span><span class="co">#&gt; FBgn0000014    1.140011     0.51874864  2.111252  0.2457066 0.8059094        NA</span></span>
+<span><span class="co">#&gt; FBgn0000015    0.916010     1.88688141  2.062250  0.9149625 0.3602113        NA</span></span>
+<span><span class="co">#&gt; FBgn0000017 4713.920051     0.24364315  0.126651  1.9237370 0.0543876  0.279683</span></span>
 <span><span class="co">#&gt; ...                 ...            ...       ...        ...       ...       ...</span></span>
-<span><span class="co">#&gt; FBgn0261571 9.27146e-02    -0.89084785  3.809351 -0.2338582  0.815095        NA</span></span>
-<span><span class="co">#&gt; FBgn0261572 6.71420e+00     0.96551979  0.763748  1.2641861  0.206163  0.598496</span></span>
-<span><span class="co">#&gt; FBgn0261573 2.42783e+03    -0.00904051  0.117375 -0.0770226  0.938606  0.988238</span></span>
-<span><span class="co">#&gt; FBgn0261574 5.25398e+03    -0.00675329  0.189429 -0.0356508  0.971561  0.993316</span></span>
-<span><span class="co">#&gt; FBgn0261575 1.14935e+01    -0.14708346  0.924524 -0.1590911  0.873597  0.971323</span></span></code></pre></div>
+<span><span class="co">#&gt; FBgn0261571 9.27145e-02    -0.89084712  3.809351 -0.2338580  0.815095        NA</span></span>
+<span><span class="co">#&gt; FBgn0261572 6.71420e+00     0.96552053  0.763748  1.2641866  0.206163  0.598495</span></span>
+<span><span class="co">#&gt; FBgn0261573 2.42783e+03    -0.00903989  0.117375 -0.0770172  0.938610  0.988242</span></span>
+<span><span class="co">#&gt; FBgn0261574 5.25398e+03    -0.00675257  0.189429 -0.0356470  0.971564  0.993315</span></span>
+<span><span class="co">#&gt; FBgn0261575 1.14935e+01    -0.14708236  0.924523 -0.1590900  0.873598  0.971319</span></span></code></pre></div>
 </div>
   </main><aside class="col-md-3"><nav id="toc" aria-label="Table of contents"><h2>On this page</h2>
     </nav></aside>

diff --git a/reference/disize.html b/reference/disize.html
@@ -54,11 +54,10 @@
 <span>  n_feats <span class="op">=</span> <span class="fu"><a href="https://rdrr.io/r/base/Extremes.html" class="external-link">min</a></span><span class="op">(</span><span class="fl">10000L</span>, <span class="fu"><a href="https://rdrr.io/r/base/nrow.html" class="external-link">ncol</a></span><span class="op">(</span><span class="va">counts</span><span class="op">)</span><span class="op">)</span>,</span>
 <span>  n_subset <span class="op">=</span> <span class="fl">50L</span>,</span>
 <span>  n_iters <span class="op">=</span> <span class="fl">5000L</span>,</span>
-<span>  rel_tol <span class="op">=</span> <span class="fl">10000</span>,</span>
+<span>  rel_tol <span class="op">=</span> <span class="fl">1000</span>,</span>
 <span>  init_alpha <span class="op">=</span> <span class="fl">1e-08</span>,</span>
-<span>  history_size <span class="op">=</span> <span class="fl">10L</span>,</span>
 <span>  n_threads <span class="op">=</span> <span class="fl">1L</span>,</span>
-<span>  n_retries <span class="op">=</span> <span class="fl">2L</span>,</span>
+<span>  n_tries <span class="op">=</span> <span class="fl">5L</span>,</span>
 <span>  verbose <span class="op">=</span> <span class="fl">3L</span></span>
 <span><span class="op">)</span></span></code></pre></div>
     </div>
@@ -110,17 +109,12 @@ can sometimes make it easier to estimate size factors for more complex
 designs.</p></dd>
 
 
-<dt id="arg-history-size">history_size<a class="anchor" aria-label="anchor" href="#arg-history-size"></a></dt>
-<dd><p>The number of past updates to use for the L-BFGS
-algorithm.</p></dd>
-
-
 <dt id="arg-n-threads">n_threads<a class="anchor" aria-label="anchor" href="#arg-n-threads"></a></dt>
 <dd><p>The number of threads to use for parallel processing.</p></dd>
 
 
-<dt id="arg-n-retries">n_retries<a class="anchor" aria-label="anchor" href="#arg-n-retries"></a></dt>
-<dd><p>The maximum number of times to retry fitting.</p></dd>
+<dt id="arg-n-tries">n_tries<a class="anchor" aria-label="anchor" href="#arg-n-tries"></a></dt>
+<dd><p>The maximum number of times to try fitting.</p></dd>
 
 
 <dt id="arg-verbose">verbose<a class="anchor" aria-label="anchor" href="#arg-verbose"></a></dt>